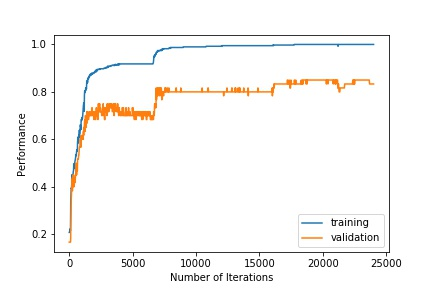
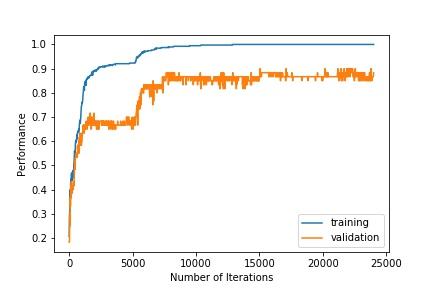
12

diff --git a/CSC411/Project_2/P2_Submission/faces.py b/CSC411/Project_2/P2_Submission/faces.py
@@ -506,7 +506,7 @@ def part8_W():
     train_xy, validation_xy,test_xy =part8_1(dimension = 64)
     train_x = Variable(torch.from_numpy(train_xy[:,:-1]), requires_grad=False).type(dtype_float)
     
-    for var in [0.0001, 0.001, 0.01, 0.1]:
+    for var in [0.001, 0.01, 0.1, 1]:
 
         dataloader = DataLoader(train_xy, batch_size=batch_size,shuffle=True)
 
@@ -734,9 +734,9 @@ if __name__ == "__main__":
     #part8_NHN()
     #part8_DIM()
     #part8_MB()
-    #part8_W()
+    part8_W()
     #part8_LR()
-    part8_3()
+    #part8_3()
     #part9()
 
 
